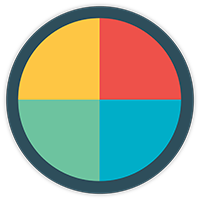
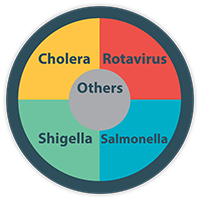
update dashboard

Changed region(s): [[0.18, 0.24, 0.84, 0.75]]

diff --git a/DEDI/DEDI.Windows/DashBoard.xaml b/DEDI/DEDI.Windows/DashBoard.xaml
@@ -48,21 +48,21 @@
                 <HubSection.Resources>
                     <ControlTemplate x:Key="ResponsibleAreaSectionTemplate" TargetType="HubSection">
                         <Grid>
-                            <Maps:Map x:Name="myMap" HorizontalAlignment="Center" VerticalAlignment="Top" Width="600" Height="326" Margin="90,250,90,0"/>
-                            <TextBlock HorizontalAlignment="Left" TextWrapping="Wrap" Text="Start Date" VerticalAlignment="Top" FontSize="20" Margin="90,680,0,0" Foreground="#FF2D4D5A"/>
-                            <TextBlock HorizontalAlignment="Left" TextWrapping="Wrap" Text="End Date" VerticalAlignment="Top" FontSize="20" Margin="90,720,0,0" Foreground="#FF2D4D5A"/>
-                            <TextBlock x:Name="AreaTbl" HorizontalAlignment="Left" TextWrapping="Wrap" Text="Responsible Area" VerticalAlignment="Top" FontSize="36" Margin="90,180,0,0" FontWeight="Bold" Foreground="#FF2D4D5A"/>
-                            <DatePicker x:Name="StartDatePicker" HorizontalAlignment="Left" Margin="199,676,0,0" VerticalAlignment="Top" DateChanged="StartDate_Change"/>
-                            <DatePicker x:Name="EndDatePicker" HorizontalAlignment="Left" Margin="199,716,0,0" VerticalAlignment="Top" DateChanged="EndDate_Change"/>
-                            <ToggleButton x:Name="AllBtn" Content="All" HorizontalAlignment="Left" Margin="196,595,0,0" VerticalAlignment="Top" Click="AllBtn_Click"/>
-                            <ToggleButton x:Name="CholeraBtn" Content="Cholera" HorizontalAlignment="Left" Margin="259,595,0,0" VerticalAlignment="Top" Checked="CholeraBtn_Click" Unchecked="CholeraBtn_unClick"/>
-                            <ToggleButton x:Name="RotavirusBtn" Content="Rotavirus" HorizontalAlignment="Left" Margin="358,595,0,0" VerticalAlignment="Top" Checked="RotavirusBtn_Click" Unchecked="RotavirusBtn_unClick"/>
-                            <ToggleButton x:Name="SalmonellaBtn" Content="Salmonella" HorizontalAlignment="Left" Margin="466,595,0,0" VerticalAlignment="Top" Checked="SalmonellaBtn_Click" Unchecked="SalmonellaBtn_unClick"/>
-                            <ToggleButton x:Name="ShigellaBtn" Content="Shigella" HorizontalAlignment="Left" Margin="585,595,0,0" VerticalAlignment="Top" Checked="ShigellaBtn_Click" Unchecked="ShigellaBtn_unClick"/>
-                            <ToggleButton x:Name="OtherBtn" Content="Other" HorizontalAlignment="Left" Margin="683,595,0,0" VerticalAlignment="Top" Checked="OtherBtn_Click" Unchecked="OtherBtn_unClick"/>
-                            <TextBlock HorizontalAlignment="Left" TextWrapping="Wrap" Text="Disease" VerticalAlignment="Top" FontSize="20" Margin="90,602,0,0" Foreground="#FF2D4D5A"/>
-                            <Slider x:Name="ProbabilitySider" HorizontalAlignment="Left" Margin="199,633,0,0" VerticalAlignment="Top" Width="554" LargeChange="1" Value="50" ValueChanged="ProbabilitySider_Change"/>
-                            <TextBlock HorizontalAlignment="Left" TextWrapping="Wrap" Text="Probability" VerticalAlignment="Top" FontSize="20" Margin="90,641,0,0" Foreground="#FF2D4D5A"/>
+                            <Maps:Map x:Name="myMap" HorizontalAlignment="Center" VerticalAlignment="Top" Width="600" Height="326" Margin="90,312,90,0"/>
+                            <TextBlock HorizontalAlignment="Left" TextWrapping="Wrap" Text="Start Date" VerticalAlignment="Top" FontSize="20" Margin="90,222,0,0" Foreground="#FF2D4D5A"/>
+                            <TextBlock HorizontalAlignment="Left" TextWrapping="Wrap" Text="End Date" VerticalAlignment="Top" FontSize="20" Margin="90,262,0,0" Foreground="#FF2D4D5A"/>
+                            <TextBlock x:Name="AreaTbl" HorizontalAlignment="Left" TextWrapping="Wrap" Text="Responsible Area" VerticalAlignment="Top" FontSize="36" Margin="90,160,0,0" FontWeight="Bold" Foreground="#FF2D4D5A"/>
+                            <DatePicker x:Name="StartDatePicker" HorizontalAlignment="Left" Margin="199,218,0,0" VerticalAlignment="Top" DateChanged="StartDate_Change" Width="280"/>
+                            <DatePicker x:Name="EndDatePicker" HorizontalAlignment="Left" Margin="199,258,0,0" VerticalAlignment="Top" DateChanged="EndDate_Change"/>
+                            <ToggleButton x:Name="AllBtn" Content="All" HorizontalAlignment="Left" Margin="196,659,0,0" VerticalAlignment="Top" Click="AllBtn_Click" Background="White" BorderBrush="{x:Null}"/>
+                            <ToggleButton x:Name="CholeraBtn" Content="Cholera" HorizontalAlignment="Left" Margin="247,659,0,0" VerticalAlignment="Top" Checked="CholeraBtn_Click" Unchecked="CholeraBtn_unClick" Background="#FFFEC644" BorderBrush="{x:Null}"/>
+                            <ToggleButton x:Name="RotavirusBtn" Content="Rotavirus" HorizontalAlignment="Left" Margin="332,659,0,0" VerticalAlignment="Top" Checked="RotavirusBtn_Click" Unchecked="RotavirusBtn_unClick" Background="#FFED4B4A" BorderBrush="{x:Null}"/>
+                            <ToggleButton x:Name="SalmonellaBtn" Content="Salmonella" HorizontalAlignment="Left" Margin="428,659,0,0" VerticalAlignment="Top" Checked="SalmonellaBtn_Click" Unchecked="SalmonellaBtn_unClick" Background="#FF00AEC8" BorderBrush="{x:Null}"/>
+                            <ToggleButton x:Name="ShigellaBtn" Content="Shigella" HorizontalAlignment="Left" Margin="534,659,0,0" VerticalAlignment="Top" Checked="ShigellaBtn_Click" Unchecked="ShigellaBtn_unClick" Background="#FF6DC39F" BorderBrush="{x:Null}"/>
+                            <ToggleButton x:Name="OtherBtn" Content="Other" HorizontalAlignment="Left" Margin="620,659,0,0" VerticalAlignment="Top" Checked="OtherBtn_Click" Unchecked="OtherBtn_unClick" Background="#FFA9ABAE" BorderBrush="{x:Null}"/>
+                            <TextBlock HorizontalAlignment="Left" TextWrapping="Wrap" Text="Disease" VerticalAlignment="Top" FontSize="20" Margin="90,666,0,0" Foreground="#FF2D4D5A"/>
+                            <Slider x:Name="ProbabilitySider" HorizontalAlignment="Left" Margin="199,701,0,0" VerticalAlignment="Top" Width="491" LargeChange="1" Value="50" ValueChanged="ProbabilitySider_Change"/>
+                            <TextBlock HorizontalAlignment="Left" TextWrapping="Wrap" Text="Probability" VerticalAlignment="Top" FontSize="20" Margin="90,709,0,0" Foreground="#FF2D4D5A"/>
                         </Grid>
                     </ControlTemplate>
                 </HubSection.Resources>
@@ -77,7 +77,9 @@
                 <HubSection.Resources>
                     <ControlTemplate x:Key="PredictionSectionTemplate" TargetType="HubSection">
                         <Grid>
-                            <Image HorizontalAlignment="Left" Height="200" VerticalAlignment="Top" Width="200" Margin="40,180,0,0" Source="Assets/total_case_lt_10.png"/>
+                            <Image x:Name="lt5" HorizontalAlignment="Left" Height="200" VerticalAlignment="Top" Width="200" Margin="40,180,0,0" Source="Assets/total_case_lt_10.png" Visibility="Collapsed"/>
+                            <Image x:Name="lt10" HorizontalAlignment="Left" Height="200" VerticalAlignment="Top" Width="200" Margin="40,180,0,0" Source="Assets/total_case_lt_20.png" Visibility="Collapsed"/>
+                            <Image x:Name="mt10" HorizontalAlignment="Left" Height="200" VerticalAlignment="Top" Width="200" Margin="40,180,0,0" Source="Assets/total_case_mt_20.png" Visibility="Collapsed"/>
                             <Image HorizontalAlignment="Left" Height="200" VerticalAlignment="Top" Width="200" Margin="260,180,0,0" Source="Assets/patients.png"/>
                             <Image HorizontalAlignment="Left" Height="200" VerticalAlignment="Top" Width="200" Margin="480,180,0,0" Source="Assets/prediction_case.png"/>
                             <Rectangle Fill="#FFF4F4F5" HorizontalAlignment="Left" Height="520" Stroke="Black" VerticalAlignment="Top" Width="320" Margin="730,180,0,0"/>
@@ -105,7 +107,6 @@
                                     </ListView.ItemTemplate>
                                 </ListView>
                             </ScrollViewer>
-                            <Button x:Name="NoOfCasesBtn" Content="Button" HorizontalAlignment="Left" VerticalAlignment="Top" Margin="607,669,0,0" Click="NoOfCasesBtn_Click"/>
                             <Grid HorizontalAlignment="Left" Height="300" VerticalAlignment="Top" Width="640" Margin="40,400,0,0">
                                 <Charting:Chart x:Name="NoOfCasesChart" Margin="0,10,0,0">
                                     <Charting:Chart.Palette>
@@ -191,16 +192,11 @@
                             <TextBlock x:Name="NoOfFemaleTbl" HorizontalAlignment="Left" TextWrapping="Wrap"  VerticalAlignment="Top" Margin="297,335,0,0" FontWeight="Bold" FontSize="30" Foreground="White"/>
                             <TextBlock x:Name="NoOfChildTbl" HorizontalAlignment="Left" TextWrapping="Wrap"  VerticalAlignment="Top" Margin="351,335,0,0" FontWeight="Bold" FontSize="30" Foreground="White"/>
                             <TextBlock x:Name="NoOfMaleTbl" HorizontalAlignment="Left" TextWrapping="Wrap"  VerticalAlignment="Top" Margin="407,335,0,0" FontWeight="Bold" FontSize="30" Foreground="White"/>
-                            <TextBlock HorizontalAlignment="Left" TextWrapping="Wrap" Text="Cholera" VerticalAlignment="Top" Margin="508,258,0,0" Foreground="#FF2E4E5B" FontSize="18" FontWeight="Bold"/>
-                            <TextBlock HorizontalAlignment="Left" TextWrapping="Wrap" Text="Rotavirus" VerticalAlignment="Top" Margin="581,258,0,0" Foreground="#FF2E4E5B" FontSize="18" FontWeight="Bold"/>
-                            <TextBlock HorizontalAlignment="Left" TextWrapping="Wrap" Text="Shigella" VerticalAlignment="Top" Margin="508,279,0,0" Foreground="#FF2E4E5B" FontSize="18" FontWeight="Bold"/>
-                            <TextBlock HorizontalAlignment="Left" TextWrapping="Wrap" Text="Salmonella" VerticalAlignment="Top" Margin="581,280,0,0" Foreground="#FF2E4E5B" FontSize="16" FontWeight="Bold"/>
-                            <TextBlock x:Name="NoCholeraTbl" HorizontalAlignment="Left" TextWrapping="Wrap" VerticalAlignment="Top" Margin="542,219,0,0" FontWeight="Bold" FontSize="30" Foreground="White"/>
-                            <TextBlock x:Name="NoRotaTbl" HorizontalAlignment="Left" TextWrapping="Wrap"  VerticalAlignment="Top" Margin="603,219,0,0" FontWeight="Bold" FontSize="30" Foreground="White"/>
-                            <TextBlock x:Name="NoSalmonellaTbl" HorizontalAlignment="Left" TextWrapping="Wrap"  VerticalAlignment="Top" Margin="603,304,0,0" FontWeight="Bold" FontSize="30" Foreground="White"/>
-                            <TextBlock x:Name="NoShigellaTbl" HorizontalAlignment="Left" TextWrapping="Wrap"  VerticalAlignment="Top" Margin="542,304,0,0" FontWeight="Bold" FontSize="30" Foreground="White"/>
-                            <TextBlock HorizontalAlignment="Left" TextWrapping="Wrap" Text="Others" VerticalAlignment="Top" Margin="581,380,0,0" Foreground="#FF2E4E5B" FontSize="18" FontWeight="Bold"/>
-                            <TextBlock x:Name="NoOthersTbl" HorizontalAlignment="Left" TextWrapping="Wrap" VerticalAlignment="Top" Margin="642,380,0,0" Foreground="#FF2E4E5B" FontSize="18" FontWeight="Bold"/>
+                            <TextBlock x:Name="NoOthersTbl" HorizontalAlignment="Left" TextWrapping="Wrap" VerticalAlignment="Top" Margin="574,280,0,0" Foreground="#FF2E4E5B" FontSize="18" FontWeight="Bold"/>
+                            <TextBlock x:Name="NoShigellaTbl" HorizontalAlignment="Left" TextWrapping="Wrap" VerticalAlignment="Top" Margin="523,290,0,0" Foreground="#FF2E4E5B" FontSize="18" FontWeight="Bold"/>
+                            <TextBlock x:Name="NoCholeraTbl" HorizontalAlignment="Left" TextWrapping="Wrap" VerticalAlignment="Top" Margin="523,254,0,0" Foreground="#FF2E4E5B" FontSize="18" FontWeight="Bold"/>
+                            <TextBlock x:Name="NoRotaTbl" HorizontalAlignment="Left" TextWrapping="Wrap" VerticalAlignment="Top" Margin="627,254,0,0" Foreground="#FF2E4E5B" FontSize="18" FontWeight="Bold"/>
+                            <TextBlock x:Name="NoSalmonellaTbl" HorizontalAlignment="Left" TextWrapping="Wrap" VerticalAlignment="Top" Margin="626,290,0,0" Foreground="#FF2E4E5B" FontSize="18" FontWeight="Bold"/>
                         </Grid>
                     </ControlTemplate>
                 </HubSection.Resources>

diff --git a/DEDI/DEDI.Shared/DashBoard.cs b/DEDI/DEDI.Shared/DashBoard.cs
@@ -22,6 +22,7 @@ using Windows.UI;
 using System.Linq;
 using Windows.UI.Xaml.Shapes;
 using Windows.UI.Xaml.Controls.Primitives;
+using Windows.UI.Xaml.Media.Imaging;
 #if WINDOWS_PHONE_APP
 using Windows.UI.Xaml.Controls.Maps;
 #endif
@@ -74,54 +75,39 @@ namespace DEDI
                 RootObject jsonResponse = list as RootObject;
                 user_postcode = jsonResponse.results[0].address_components[jsonResponse.results[0].address_components.Count - 1].long_name;
 
-                int male = 0;
-                int female = 0;
-                int child = 0;
-
                 List<Dashboard_Report> dashboard_report = new List<Dashboard_Report>();
-               
                 var disease_report = await App.MobileService.GetTable<Disease_Report>().ToListAsync();
-#if WINDOWS_APP
-                TextBlock NoOfCasesTbl = FindChildControl<TextBlock>(PredictionSection, "NoOfCasesTbl") as TextBlock;
-#endif
-                NoOfCasesTbl.Text = disease_report.Count + "";
                 foreach(Disease_Report report in disease_report){
-                    Uri = new Uri("https://maps.googleapis.com/maps/api/geocode/json?latlng=" + report.latitude + "," + report.longitude + "&key=AIzaSyDeJZgbdA56eyfwk660AZY0HrljWgpRtVc");
-                    response = await client.GetAsync(Uri);
-                    result = await response.Content.ReadAsStringAsync();
-                    ms = new MemoryStream(Encoding.UTF8.GetBytes(result));
-                    list = serializer.ReadObject(ms);
-                    jsonResponse = list as RootObject;
-                    string report_postcode = jsonResponse.results[0].address_components[jsonResponse.results[0].address_components.Count - 1].long_name;
-                   
-                        var patient = await App.MobileService.GetTable<Patient>().Where(p => p.id==report.patient_id).ToListAsync();
-                        if (patient.Count > 0)
-                        {
-                            if (patient[0].gender == "F" && CalculateAge(patient[0].dob) > 12) female++;
-                            else if (patient[0].gender == "M" && CalculateAge(patient[0].dob) > 12) male++;
-                            else if (CalculateAge(patient[0].dob) <= 12) child++;
-                }
+
+                        Uri = new Uri("https://maps.googleapis.com/maps/api/geocode/json?latlng=" + report.latitude + "," + report.longitude + "&key=AIzaSyDeJZgbdA56eyfwk660AZY0HrljWgpRtVc");
+                        response = await client.GetAsync(Uri);
+                        result = await response.Content.ReadAsStringAsync();
+                        ms = new MemoryStream(Encoding.UTF8.GetBytes(result));
+                        list = serializer.ReadObject(ms);
+                        jsonResponse = list as RootObject;
+                        string report_postcode = jsonResponse.results[0].address_components[jsonResponse.results[0].address_components.Count - 1].long_name;
+
+                        
                         List<Bayesian_Prob> prob = await App.MobileService.GetTable<Bayesian_Prob>().Where(p => p.id == report.prob_id).ToListAsync();
                         cholera += prob[0].Cholera;
                         shigella += prob[0].Shigella;
                         rotavirus += prob[0].Rotavirus;
                         salmonella += prob[0].Samonella;
-                        
-                        dashboard_report.Add(new Dashboard_Report() { 
-                            id ="ReportID: "+report.id.Substring(0,10),
-                            CholeraPercent = Math.Round((prob[0].Cholera*100),2)+"%",
-                            CholeraWidth = prob[0].Cholera*200,
-                            ShigellaPercent = Math.Round((prob[0].Shigella*100),2)+"%",
-                            ShigellaWidth = prob[0].Shigella*200,
+
+                        dashboard_report.Add(new Dashboard_Report()
+                        {
+                            id = "ReportID: " + report.id.Substring(0, 10),
+                            CholeraPercent = Math.Round((prob[0].Cholera * 100), 2) + "%",
+                            CholeraWidth = prob[0].Cholera * 200,
+                            ShigellaPercent = Math.Round((prob[0].Shigella * 100), 2) + "%",
+                            ShigellaWidth = prob[0].Shigella * 200,
                             SalmonellaPercent = Math.Round((prob[0].Samonella * 100), 2) + "%",
                             SalmonellaWidth = prob[0].Samonella * 200,
                             RotavirusPercent = Math.Round((prob[0].Rotavirus * 100), 2) + "%",
                             RotavirusWidth = prob[0].Rotavirus * 200
 
                         });
-                   
-                    
-                   
+
                    
                 }
                 var today = DateTime.Today;
@@ -130,18 +116,6 @@ namespace DEDI
                 DatePicker StartDatePicker = FindChildControl<DatePicker>(ResponsibleAreaSection, "StartDatePicker") as DatePicker;
 #endif
                 StartDatePicker.Date = month;
-#if WINDOWS_APP
-                TextBlock NoOfChildTbl = FindChildControl<TextBlock>(PredictionSection, "NoOfChildTbl") as TextBlock;
-#endif
-                NoOfChildTbl.Text = child + "";
-#if WINDOWS_APP
-                TextBlock NoOfMaleTbl = FindChildControl<TextBlock>(PredictionSection, "NoOfMaleTbl") as TextBlock;
-#endif
-                NoOfMaleTbl.Text = male + "";
-#if WINDOWS_APP
-                TextBlock NoOfFemaleTbl = FindChildControl<TextBlock>(PredictionSection, "NoOfFemaleTbl") as TextBlock;
-#endif
-                NoOfFemaleTbl.Text = female + "";
 
 #if WINDOWS_APP
                 TextBlock NoCholeraTbl = FindChildControl<TextBlock>(PredictionSection, "NoCholeraTbl") as TextBlock;
@@ -192,6 +166,7 @@ namespace DEDI
                 ShigellaBtn.IsChecked = false;
                 OtherBtn.IsChecked = false;
                 check_all = 1;
+                loadNum();
                 loadDisease();
                 loadDisaster();
                 loadRF();
@@ -231,11 +206,16 @@ namespace DEDI
 
                 foreach (var report in all)
                 {
-                    Cholera.Add(new NumberOfCases() { date = report.dateOccurred, cases = (int)Math.Round(cholera)});
-                    Rotavirus.Add(new NumberOfCases() { date = report.dateOccurred, cases = (int)Math.Round(rotavirus) });
-                    Shigella.Add(new NumberOfCases() { date = report.dateOccurred, cases = (int)Math.Round(shigella) });
-                    Salmonella.Add(new NumberOfCases() { date = report.dateOccurred, cases = (int)Math.Round(salmonella) });
-                    Others.Add(new NumberOfCases() { date = report.dateOccurred, cases = (int)(disease_report.Count - Math.Round(cholera) - Math.Round(shigella) - Math.Round(rotavirus) - Math.Round(salmonella)) });
+                    DatePicker startdate = FindChildControl<DatePicker>(ResponsibleAreaSection, "StartDatePicker") as DatePicker;
+                    DatePicker enddate = FindChildControl<DatePicker>(ResponsibleAreaSection, "EndDatePicker") as DatePicker;
+                    if (report.dateOccurred < enddate.Date && report.dateOccurred > startdate.Date)
+                    {
+                        Cholera.Add(new NumberOfCases() { date = report.dateOccurred, cases = (int)Math.Round(cholera) });
+                        Rotavirus.Add(new NumberOfCases() { date = report.dateOccurred, cases = (int)Math.Round(rotavirus) });
+                        Shigella.Add(new NumberOfCases() { date = report.dateOccurred, cases = (int)Math.Round(shigella) });
+                        Salmonella.Add(new NumberOfCases() { date = report.dateOccurred, cases = (int)Math.Round(salmonella) });
+                        Others.Add(new NumberOfCases() { date = report.dateOccurred, cases = (int)(disease_report.Count - Math.Round(cholera) - Math.Round(shigella) - Math.Round(rotavirus) - Math.Round(salmonella)) });
+                    }
                 }
                 //foreach (var report in others)
                 //{
@@ -307,6 +287,71 @@ namespace DEDI
             return null;
         }
 #if WINDOWS_APP
+        private async void loadNum()
+        {
+            try
+            {
+                var reports = await App.MobileService.GetTable<Disease_Report>().ToListAsync();
+                int noofreport = 0;
+                int male = 0;
+                int female = 0;
+                int child = 0;
+                var client = new HttpClient();
+                foreach (Disease_Report report in reports)
+                {
+                    DatePicker startdate = FindChildControl<DatePicker>(ResponsibleAreaSection, "StartDatePicker") as DatePicker;
+                    DatePicker enddate = FindChildControl<DatePicker>(ResponsibleAreaSection, "EndDatePicker") as DatePicker;
+                    if (report.ocurred_time < enddate.Date && report.ocurred_time > startdate.Date)
+                    {
+                        noofreport = noofreport + 1;
+                        var patient = await App.MobileService.GetTable<Patient>().Where(p => p.id == report.patient_id).ToListAsync();
+                        if (patient.Count > 0)
+                        {
+                            if (patient[0].gender == "F" && CalculateAge(patient[0].dob) > 12) female++;
+                            else if (patient[0].gender == "M" && CalculateAge(patient[0].dob) > 12) male++;
+                            else if (CalculateAge(patient[0].dob) <= 12) child++;
+                        }
+                    }
+                }
+
+                Image lt5 = FindChildControl<Image>(PredictionSection, "lt5") as Image;
+                Image lt10 = FindChildControl<Image>(PredictionSection, "lt10") as Image;
+                Image mt10 = FindChildControl<Image>(PredictionSection, "mt10") as Image;
+
+                if (noofreport < 5)
+                {
+                    lt5.Visibility = Visibility.Visible;
+                    lt10.Visibility = Visibility.Collapsed;
+                    mt10.Visibility = Visibility.Collapsed;
+                }
+                else if (noofreport < 10 && noofreport >= 5)
+                {
+                    lt5.Visibility = Visibility.Collapsed;
+                    lt10.Visibility = Visibility.Visible;
+                    mt10.Visibility = Visibility.Collapsed;
+                }
+                else if (noofreport >= 10)
+                {
+                    lt5.Visibility = Visibility.Collapsed;
+                    lt10.Visibility = Visibility.Collapsed;
+                    mt10.Visibility = Visibility.Visible;
+                }
+                TextBlock NoOfCasesTbl = FindChildControl<TextBlock>(PredictionSection, "NoOfCasesTbl") as TextBlock;
+                NoOfCasesTbl.Text = noofreport + "";
+
+                TextBlock NoOfChildTbl = FindChildControl<TextBlock>(PredictionSection, "NoOfChildTbl") as TextBlock;
+                NoOfChildTbl.Text = child + "";
+
+                TextBlock NoOfMaleTbl = FindChildControl<TextBlock>(PredictionSection, "NoOfMaleTbl") as TextBlock;
+                NoOfMaleTbl.Text = male + "";
+
+                TextBlock NoOfFemaleTbl = FindChildControl<TextBlock>(PredictionSection, "NoOfFemaleTbl") as TextBlock;
+                NoOfFemaleTbl.Text = female + "";
+
+            }
+            catch (Exception e) { }
+
+        }
         private async void loadDisaster()
         {
             try
@@ -327,6 +372,10 @@ namespace DEDI
 
                         //if (postcode == user_postcode)
                         //{
+                        DatePicker startdate = FindChildControl<DatePicker>(ResponsibleAreaSection, "StartDatePicker") as DatePicker;
+                        DatePicker enddate = FindChildControl<DatePicker>(ResponsibleAreaSection, "EndDatePicker") as DatePicker;
+                        if (report.ocurred_time < enddate.Date && report.ocurred_time > startdate.Date)
+                        {
                             Pushpin pushpin = new Pushpin();
                             pushpin.Tapped += new TappedEventHandler(pushpinTapped);
                             pushpin.Name = report.id;
@@ -334,6 +383,7 @@ namespace DEDI
                             pushpin.Background = new SolidColorBrush(Colors.GreenYellow);
                             MapLayer.SetPosition(pushpin, new Bing.Maps.Location(report.latitude, report.longitude));
                             myMap.Children.Add(pushpin);
+                        }
                         //}
                         }
 
@@ -361,6 +411,10 @@ namespace DEDI
                         //string postcode = jsonResponse.results[0].address_components[jsonResponse.results[0].address_components.Count - 1].long_name;
                         //if (postcode == user_postcode)
                         //{
+                        DatePicker startdate = FindChildControl<DatePicker>(ResponsibleAreaSection, "StartDatePicker") as DatePicker;
+                        DatePicker enddate = FindChildControl<DatePicker>(ResponsibleAreaSection, "EndDatePicker") as DatePicker;
+                        if (report.ocurred_time < enddate.Date && report.ocurred_time > startdate.Date)
+                        {
                             Pushpin pushpin = new Pushpin();
                             pushpin.Tapped += new TappedEventHandler(pushpinTapped);
 
@@ -368,6 +422,7 @@ namespace DEDI
                             pushpin.Name = report.id;
                             MapLayer.SetPosition(pushpin, new Bing.Maps.Location(report.latitude, report.longitude));
                             myMap.Children.Add(pushpin);
+                        }
                         //}
                     }
 
@@ -594,6 +649,8 @@ namespace DEDI
                 loadDisaster();
                 loadRF();
             }
+            loadNum();
+            loadgraph();
         }
 
         private void EndDate_Change(object sender, DatePickerValueChangedEventArgs e)
@@ -604,6 +661,8 @@ namespace DEDI
                 loadDisaster();
                 loadRF();
             }
+            loadNum();
+            loadgraph();
         }
 #endif
 #if WINDOWS_PHONE_APP
